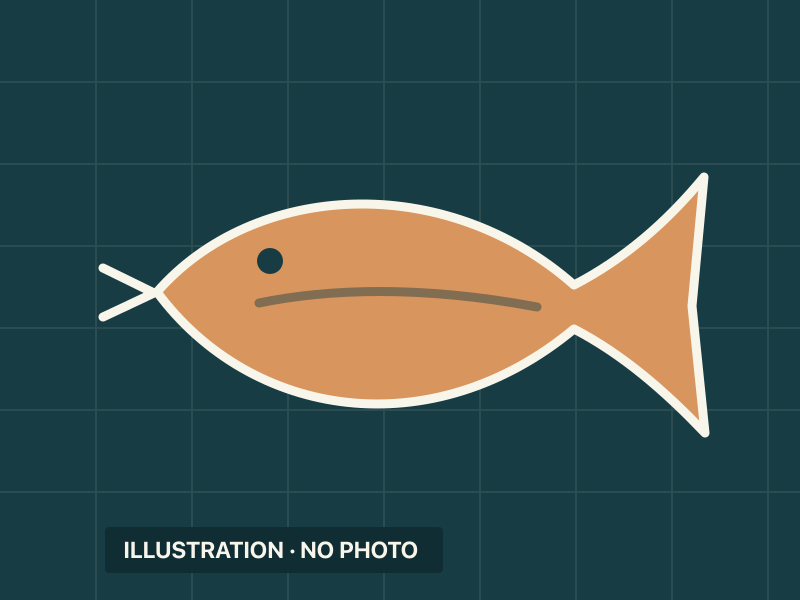
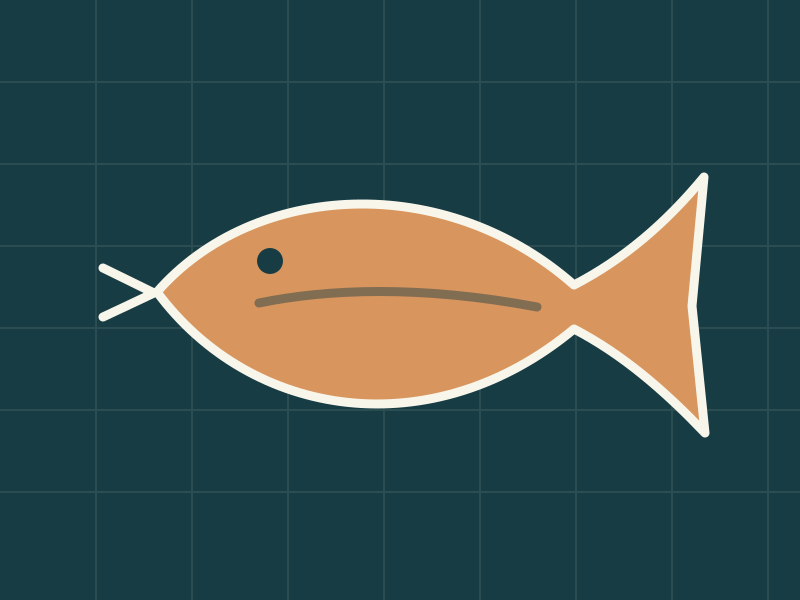
fix: remove remaining fish image captions

Changed region(s): [[0.1562, 0.9, 0.5312, 0.93]]

diff --git a/apps/web/src/data/market-copy.ts b/apps/web/src/data/market-copy.ts
@@ -3,14 +3,14 @@ export const marketCopy = {
     title: 'Shop', description: 'Browse fish lots from Japan’s east coast.', region: 'Japan’s east coast', heading: 'Today’s lots', count: 'Live count unavailable',
     initial: 'Preview lots are shown until the market connects.', preview: 'Live stock unavailable. Showing sample lots.', loading: 'Checking the market…', unavailable: 'Market unavailable.', fallback: 'Showing previews, not live stock.',
     empty: 'No lots match. Try another fish or availability.', filter: 'Filter by availability and fish', open: 'Open', accepted: 'Reserved', settled: 'Sold', cancelled: 'Cancelled', all: 'All lots', allFish: 'All fish',
-    previewBadge: 'Preview', referenceAlt: 'Species reference image', photoAlt: 'Landing photograph', unknown: 'Fish lot', weightUnknown: 'Weight unknown', lengthUnknown: 'Length unknown',
+    previewBadge: 'Preview', unknown: 'Fish lot', weightUnknown: 'Weight unknown', lengthUnknown: 'Length unknown',
     landed: 'Landed', view: 'View', demo: 'demo', openCount: 'open lots', settlement: 'Prices in JPY · settlement in JPYC', language: 'Language',
   },
   ja: {
     title: 'お店', description: '日本の太平洋沿岸の魚を探す。', region: '日本の太平洋沿岸', heading: '本日の魚', count: '出品数を確認できません',
     initial: '市場に接続するまでプレビュー商品を表示します。', preview: '在庫を確認できません。サンプル商品を表示しています。', loading: '市場を確認中…', unavailable: '市場を読み込めません。', fallback: '現在の在庫ではなく、プレビューを表示しています。',
     empty: '該当する商品がありません。魚種や販売状況を変えてください。', filter: '販売状況・魚種で絞り込む', open: '販売中', accepted: '予約済み', settled: '売約済み', cancelled: '取り消し', all: 'すべての商品', allFish: 'すべての魚',
-    previewBadge: 'プレビュー', referenceAlt: '魚種の参考画像', photoAlt: '水揚げ時の写真', unknown: '魚', weightUnknown: '重量不明', lengthUnknown: '全長不明',
+    previewBadge: 'プレビュー', unknown: '魚', weightUnknown: '重量不明', lengthUnknown: '全長不明',
     landed: '水揚げ', view: '詳細 (EN)', demo: 'デモ', openCount: '件販売中', settlement: '価格表示：日本円 · 決済通貨：JPYC', language: '言語',
   },
 } as const;

diff --git a/apps/web/src/lib/lot-detail.ts b/apps/web/src/lib/lot-detail.ts
@@ -39,10 +39,8 @@ if (root) {
     photo.closest('picture')?.querySelectorAll('source').forEach((source) => source.remove());
     photo.removeAttribute('srcset');
     photo.src = src;
-    photo.alt = 'Species reference image';
+    photo.alt = species ?? 'Fish';
     photo.closest<HTMLElement>('.market-detail__media')!.dataset.reference = 'true';
-    const caption = root?.querySelector<HTMLElement>('[data-photo-caption]');
-    if (caption) caption.hidden = true;
   }
   const showUnavailable = (text: string) => {
     if (bidding) bidding.hidden = true;
@@ -69,7 +67,6 @@ if (root) {
     set('[data-signal-status]', 'Preview only');
     set('[data-signal-species]', 'Sample label');
     set('[data-signal-review]', 'No review record');
-    set('[data-signal-photo]', 'Reference image');
     for (const field of ['species', 'weight', 'length']) {
       const marker = root?.querySelector<HTMLElement>(`[data-correction-${field}]`);
       if (marker) marker.hidden = true;
@@ -80,7 +77,7 @@ if (root) {
     }
     if (content) content.hidden = false;
     if (evidence) evidence.hidden = true;
-    if (message) message.textContent = 'This is an illustrative preview, not current market inventory.';
+    if (message) message.textContent = 'This is a preview lot, not current market inventory.';
     if (recovery) recovery.hidden = true;
     return true;
   }
@@ -113,9 +110,6 @@ if (root) {
       photo.src = observation.image_ref;
       photo.closest<HTMLElement>('.market-detail__media')!.dataset.reference = 'false';
       photo.alt = `Landing photograph for ${facts.species_label ?? 'this lot'}`;
-      set('[data-photo-caption]', 'Landing photo submitted with this scan.');
-      const caption = root?.querySelector<HTMLElement>('[data-photo-caption]');
-      if (caption) caption.hidden = false;
     }
     if (evidenceAction) {
       evidenceAction.href = '#lot-evidence';
@@ -126,7 +120,6 @@ if (root) {
     set('[data-signal-review]', corrections.length > 0
       ? `${corrections.length} human correction${corrections.length === 1 ? '' : 's'}`
       : lot.status === 'pending_review' ? 'Review needed' : 'No corrections');
-    set('[data-signal-photo]', hasPhoto ? 'Landing photo' : 'Reference image');
     const answer = decision.kind === 'choice' ? decision.choice ?? 'No answer'
       : decision.kind === 'score' ? `${Math.round((decision.score ?? 0) * 100)}% recorded score`
       : decision.noul_value ? 'Yes' : 'No';

diff --git a/apps/web/src/lib/market-board.ts b/apps/web/src/lib/market-board.ts
@@ -54,7 +54,7 @@ if (market) {
     const image = element('img');
     const species = (listing.species_label ?? '').toLowerCase();
     image.src = listing.image_ref ?? images[species] ?? art;
-    image.alt = listing.image_ref ? t.photoAlt : t.referenceAlt;
+    image.alt = names[species] ?? listing.species_label ?? t.unknown;
     if (!listing.image_ref) article.classList.add('market-card--reference');
     image.width = 480;
     image.height = 360;

diff --git a/apps/web/src/assets/fish/README.md b/apps/web/src/assets/fish/README.md
@@ -4,4 +4,4 @@ The six `*-ice.webp` assets are AI-generated illustrations of katsuo, sanma, sab
 
 `dockside-catch.webp` is an AI-generated editorial-style hero showing fish on ice beside a harbor. It does not depict a named harbor, actual landing or supplier.
 
-These are presentation assets, not lot photographs, landing evidence, classifier inputs or validated species references. Submitted landing photos take precedence in live listings and lot details. Asset provenance is documented here. The storefront keeps sample inventory distinct from live listings; lot evidence distinguishes submitted photographs from species reference images.
+These are presentation assets, not lot photographs, landing evidence, classifier inputs or validated species references. Submitted landing photos take precedence in live listings and lot details. Asset provenance is documented here. The storefront keeps sample inventory distinct from live listings.
